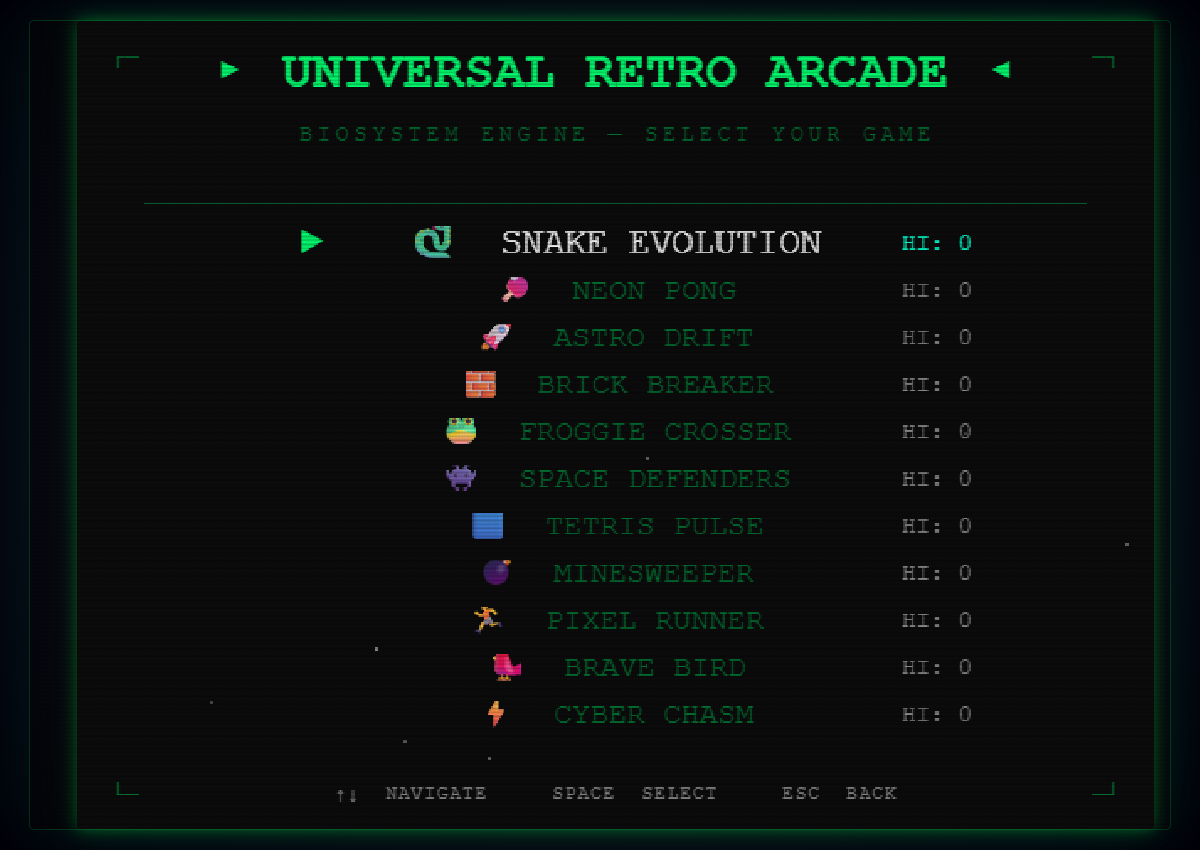
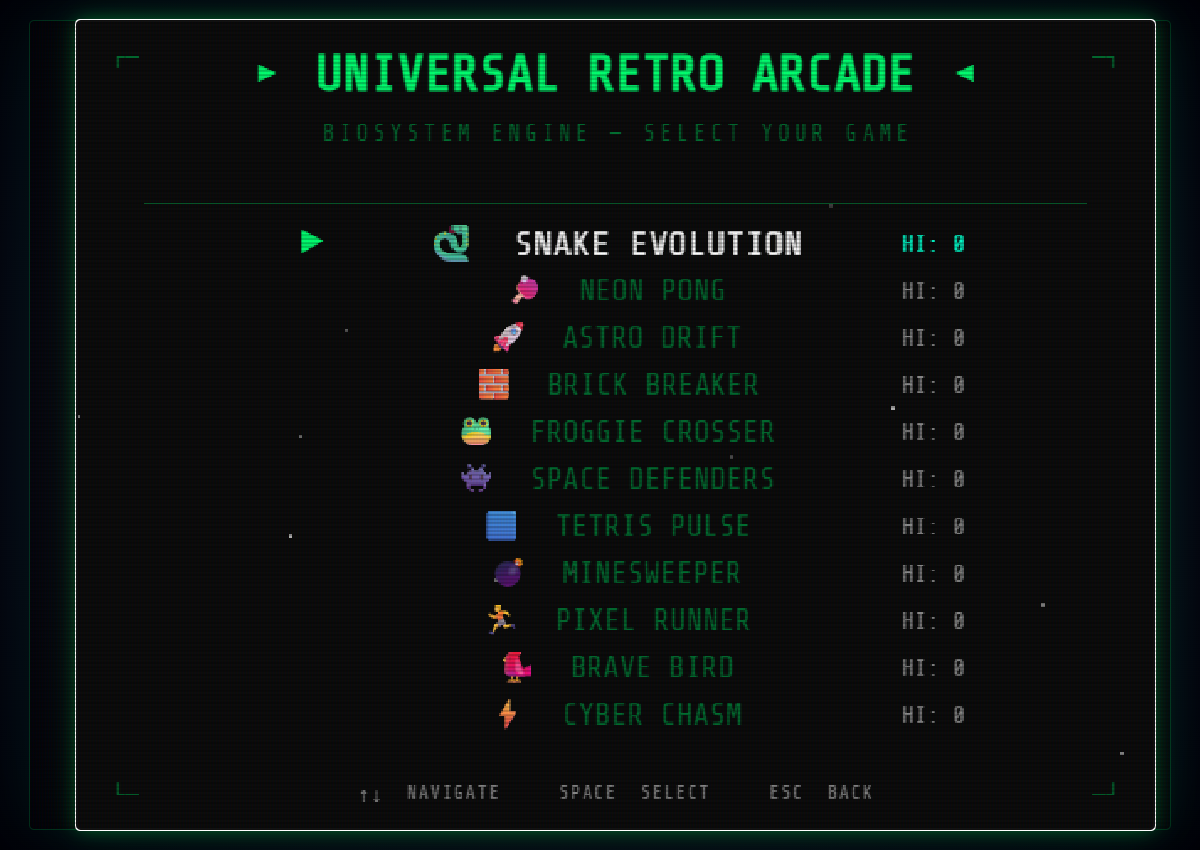
docs: capture high-contrast gameplay screenshots and fix Phaser 4 ColorMatrix API usage

diff --git a/src/scenes/LobbyScene.ts b/src/scenes/LobbyScene.ts
@@ -89,18 +89,14 @@ export default class LobbyScene extends Phaser.Scene {
   }
 
   private applyCrt() {
-    // @ts-ignore
-    if (this.cameras.main.postFX) {
-      // @ts-ignore
-      this.cameras.main.postFX.clear();
-      // @ts-ignore
-      const barrel = this.cameras.main.postFX.addBarrel(1.02);
-      // @ts-ignore
-      const vignette = this.cameras.main.postFX.addVignette(0.5, 0.5, 0.7);
-      // @ts-ignore
-      const color = this.cameras.main.postFX.addColorMatrix();
-      color.sepia();
-      color.saturate(2);
+    const filters = this.cameras.main.filters.internal;
+    filters.clear();
+    filters.addBarrel(1.02);
+    filters.addVignette(0.5, 0.5, 0.7);
+    const color = filters.addColorMatrix();
+    if (color && color.colorMatrix) {
+      color.colorMatrix.sepia();
+      color.colorMatrix.saturate(2);
     }
   }
 
@@ -110,13 +106,10 @@ export default class LobbyScene extends Phaser.Scene {
     if (this.isCrtEnabled) {
       this.applyCrt();
     } else {
-      // @ts-ignore
-      if (this.cameras.main.postFX) {
-        // @ts-ignore
-        this.cameras.main.postFX.clear();
-      }
+      this.cameras.main.filters.internal.clear();
     }
   }
+
 
   private buildStarfield() {
     this.starGfx = this.add.graphics();

diff --git a/src/scenes/AsteroidsScene.ts b/src/scenes/AsteroidsScene.ts
@@ -22,6 +22,9 @@ export default class AsteroidsScene extends Phaser.Scene {
       case 'EXPERT': this.asteroidCount = 12; this.maxSpeed = 260; break;
     }
 
+    // Add neon grid background
+    this.add.grid(320, 240, 640, 480, 40, 40, 0x000000, 0, 0x00ff00, 0.05);
+
     this.add.text(320, 20, 'ASTRO DRIFT - ARROWS TO MOVE - SPACE TO SHOOT - ESC TO LOBBY', { fontSize: '12px', color: '#00ff00' }).setOrigin(0.5);
 
     const diffColors: any = { EASY: '#00ffcc', NORMAL: '#00ff00', HARD: '#ffff00', EXPERT: '#ff0055' };
@@ -42,8 +45,16 @@ export default class AsteroidsScene extends Phaser.Scene {
 
     if (!this.textures.exists('asteroid')) {
       const graphics = this.add.graphics();
-      graphics.lineStyle(2, 0xffffff);
-      graphics.strokeCircle(20, 20, 18);
+      graphics.lineStyle(2, 0x00ffff);
+      const points = [];
+      const numPoints = 10;
+      const radius = 16;
+      for (let i = 0; i < numPoints; i++) {
+        const angle = (i / numPoints) * Math.PI * 2;
+        const r = radius + (i % 2 === 0 ? 3 : -3);
+        points.push({ x: 20 + Math.cos(angle) * r, y: 20 + Math.sin(angle) * r });
+      }
+      graphics.strokePoints(points, true);
       graphics.generateTexture('asteroid', 40, 40);
       graphics.destroy();
     }

diff --git a/src/main.ts b/src/main.ts
@@ -46,4 +46,6 @@ const config: Phaser.Types.Core.GameConfig = {
   ]
 };
 
-new Phaser.Game(config);
+const game = new Phaser.Game(config);
+(window as any).game = game;
+
